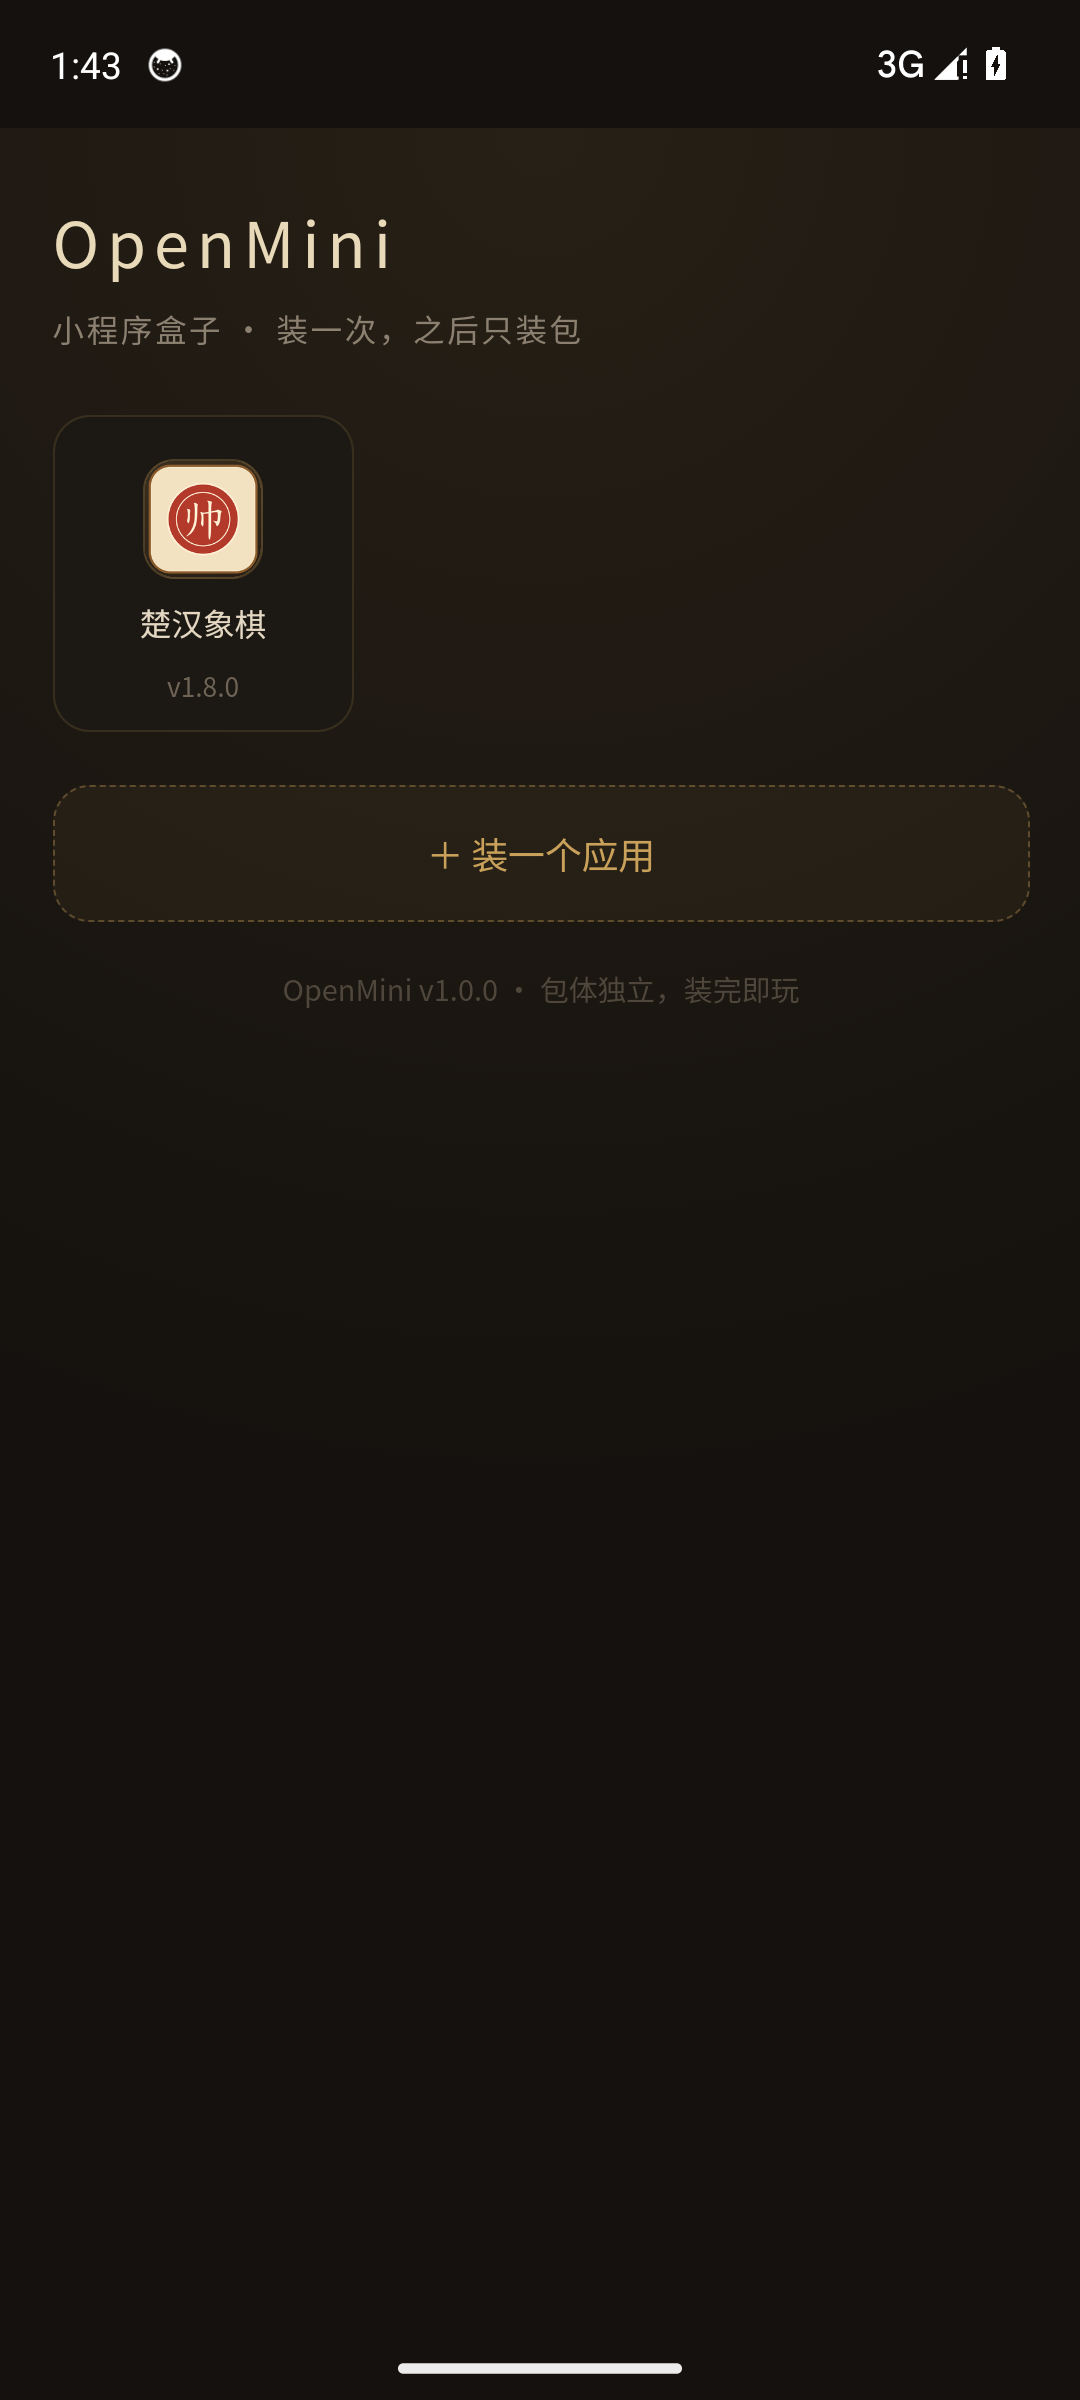
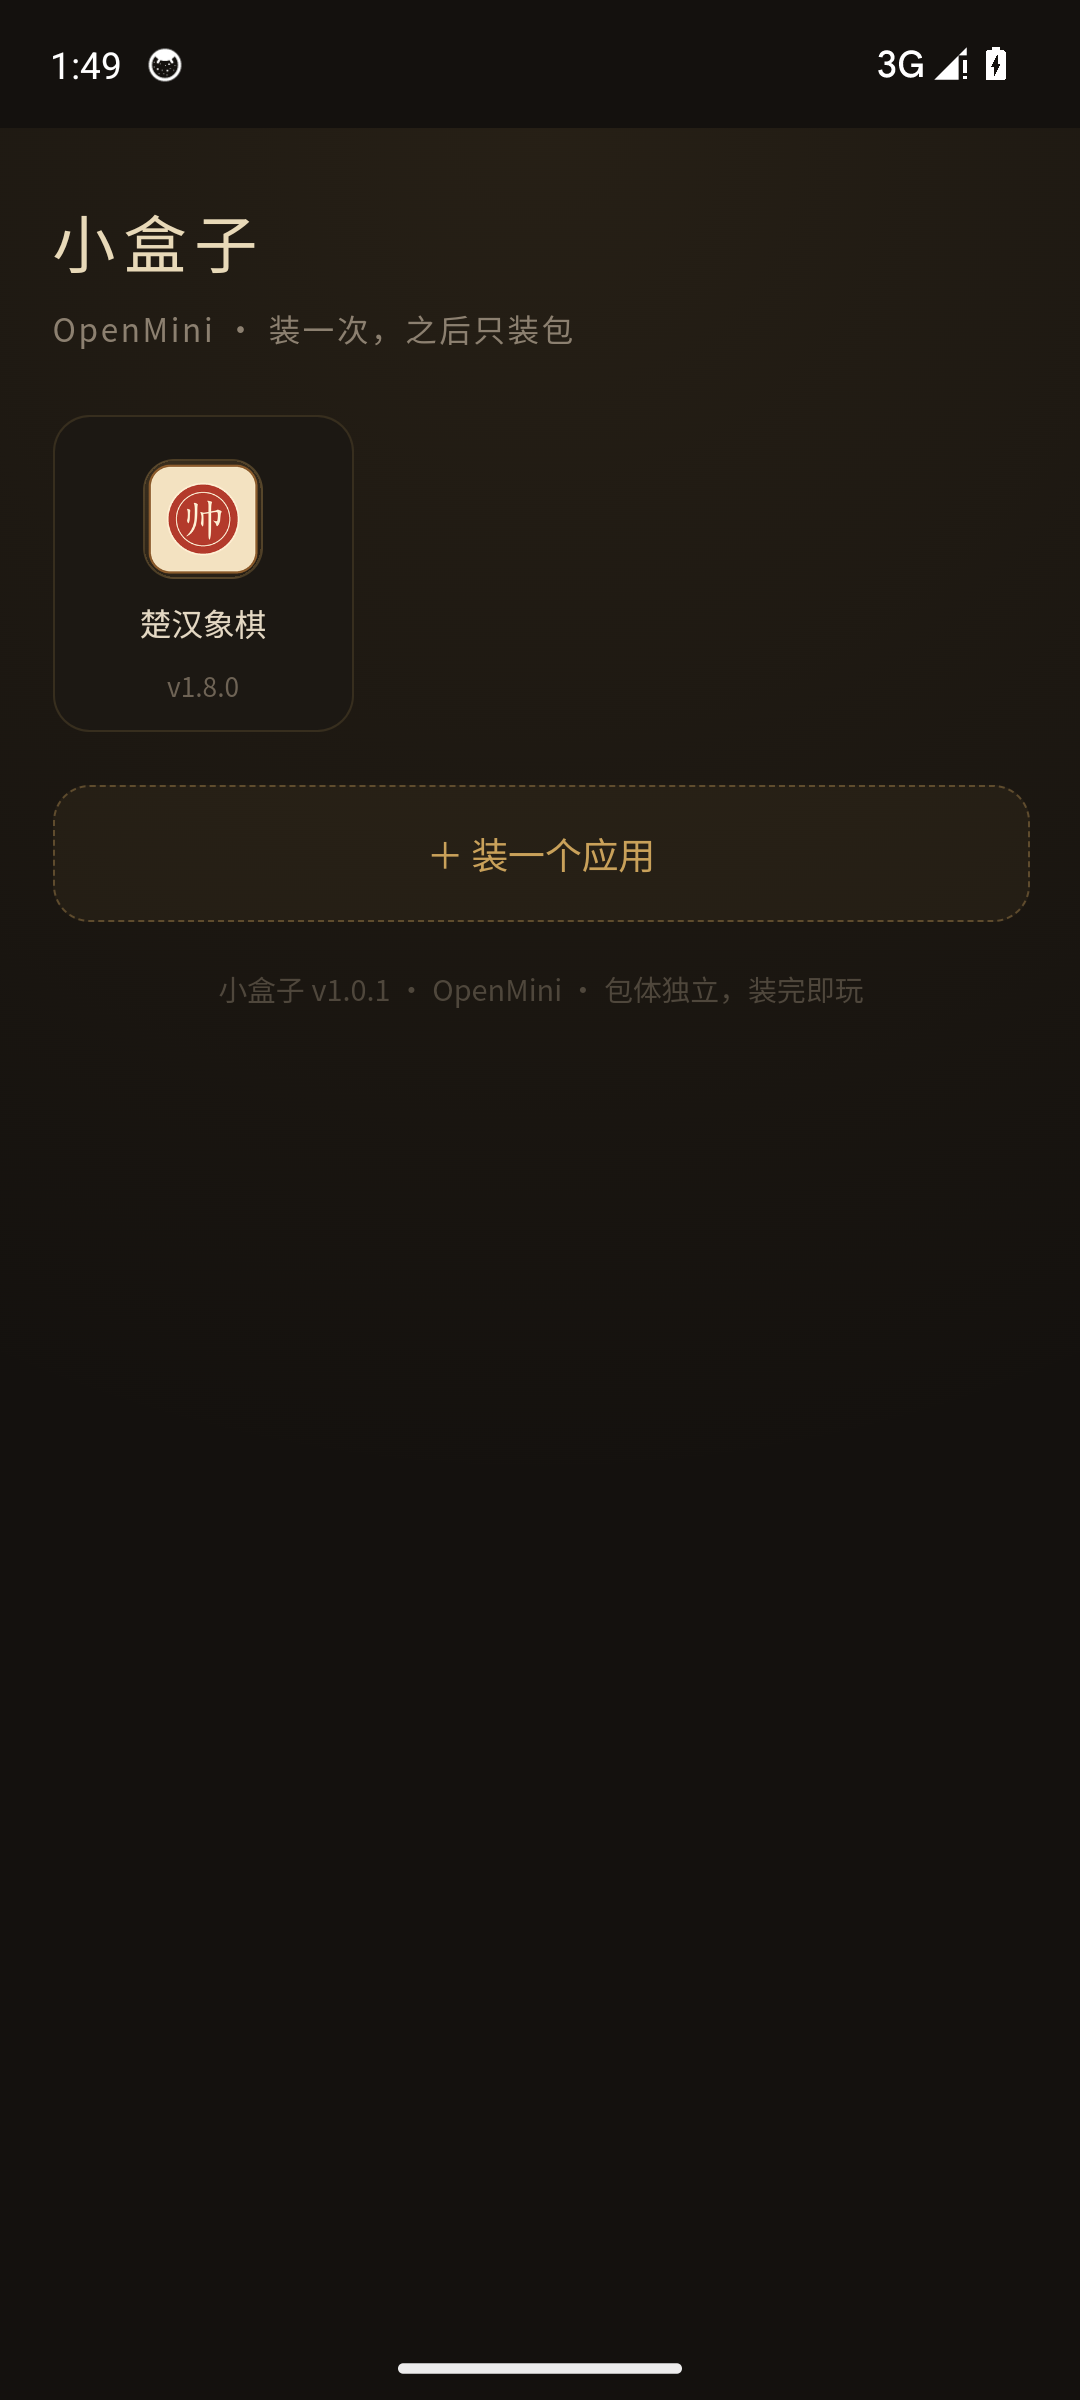
feat: 中文名改为小盒子，v1.0.1
- 应用名/启动器标题/局域网页：小盒子（OpenMini 保留为英文品牌与副标题）
- README 新增「包里跑的是什么代码？能装别人的小程序吗？」一节
- versionCode 2 / versionName 1.0.1，重打内置象棋包

diff --git a/android/app/src/main/assets/host/lan.html b/android/app/src/main/assets/host/lan.html
@@ -3,7 +3,7 @@
 <head>
 <meta charset="utf-8">
 <meta name="viewport" content="width=device-width,initial-scale=1">
-<title>OpenMini · 局域网装包</title>
+<title>小盒子 · 局域网装包</title>
 <style>
 * { box-sizing: border-box; }
 body {
@@ -96,7 +96,7 @@ code { color: #9A8B72; }
       var r = {};
       try { r = JSON.parse(xhr.responseText); } catch (err) { r = {}; }
       if (r.ok) {
-        say('<b>' + (r.msg || '已安装') + '</b>　回到手机上的 OpenMini 就能看到了');
+        say('<b>' + (r.msg || '已安装') + '</b>　回到手机上的小盒子就能看到了');
       } else {
         say(r.msg || ('上传失败 HTTP ' + xhr.status), true);
       }

diff --git a/android/app/src/main/assets/host/index.html b/android/app/src/main/assets/host/index.html
@@ -4,14 +4,14 @@
 <meta charset="utf-8">
 <meta name="viewport" content="width=device-width,initial-scale=1,viewport-fit=cover">
 <meta name="theme-color" content="#14110E">
-<title>OpenMini</title>
+<title>小盒子</title>
 <link rel="stylesheet" href="style.css">
 </head>
 <body>
 <div class="wrap">
   <header>
-    <h1>OpenMini</h1>
-    <p class="sub">小程序盒子 · 装一次，之后只装包</p>
+    <h1>小盒子</h1>
+    <p class="sub">OpenMini · 装一次，之后只装包</p>
   </header>
 
   <div id="grid" class="grid"></div>

diff --git a/android/app/src/main/assets/host/host.js b/android/app/src/main/assets/host/host.js
@@ -277,7 +277,7 @@
   if (h) {
     try {
       var m = JSON.parse(h.meta());
-      $('foot').textContent = 'OpenMini v' + m.version + ' · 包体独立，装完即玩';
+      $('foot').textContent = '小盒子 v' + m.version + ' · OpenMini · 包体独立，装完即玩';
     } catch (e) { /* 忽略 */ }
   }
 

diff --git a/README.md b/README.md
@@ -1,4 +1,4 @@
-# OpenMini · 小游盒
+# OpenMini · 小盒子
 
 **一个 104 KB 的小程序宿主 APK。装一次，以后所有小应用、小游戏都打成 zip 包随时装进去。**
 
@@ -47,7 +47,7 @@ OpenMini 把**运行时**和**内容**拆开：
 
 ## 下载 / 使用
 
-从 [Releases](https://github.com/joeyjiaojg/openmini/releases) 下载 `OpenMini-v1.0.0.apk`，装到手机上（minSdk 21 / Android 5.0+）。首次打开会自带一个示例应用。
+从 [Releases](https://github.com/joeyjiaojg/openmini/releases) 下载 `OpenMini-v1.0.1.apk`，装到手机上（minSdk 21 / Android 5.0+）。首次打开**默认已装好「楚汉象棋」**（人机对战 / 机器对战观战 / 三档难度），拿来就能玩。
 
 装新应用：
 
@@ -92,7 +92,32 @@ python tools/make-pkg.py apps/demo --version 1.1.0 --version-code 2
 python tools/make-pkg.py apps/xiangqi -o android/app/src/main/assets/apps/xiangqi.zip
 ```
 
-放进 `android/app/src/main/assets/apps/*.zip` 的包会在**首次启动**时自动安装（只播一次，用户删掉后不会复活）。
+放进 `android/app/src/main/assets/apps/*.zip` 的包会在**首次启动**时自动安装（只播一次，用户删掉后不会复活）。仓库里现在内置了 `xiangqi.zip`（源码在 `apps/xiangqi/`），所以新装的盒子打开就有象棋。
+
+## 包里跑的是什么代码？能装别人的小程序吗？
+
+**包里是普通网页**：`index.html` + CSS + JS，交给系统 WebView 直接渲染。没有 Node 运行时，不需要构建，也不要求单文件。
+
+以 `apps/xiangqi/` 为例：
+
+| 文件 | 是什么 |
+|---|---|
+| `index.html` / `css/style.css` | 页面骨架与样式 |
+| `js/game.js` | 对局流程、Canvas 棋盘绘制（ES5：`var` + `function`，兼容老 WebView） |
+| `js/bundle.js` | 规则引擎与 AI。源码本来是 CommonJS，开发时由 `tools/build-web.js` 用 20 行假模块系统（`__define` / `__require`）裹成 IIFE 挂到 `window.XQ` |
+
+Node 只出现在**开发机上**（跑 `build-web.js` 把引擎源码打成浏览器可用的 bundle），产物是纯 JS，手机端不需要 Node。
+
+**不能直接装微信小程序源码**：WXML / WXSS / `App()` / `Page()` / `wx.*` 都是微信运行时私有的，而 OpenMini 只提供浏览器环境。
+
+| 手上的东西 | 能否直接打进盒子 |
+|---|---|
+| H5 / 普通网页 / Vite、React、Vue 的构建产物 | ✅ 可以 |
+| 微信小程序源码（WXML / WXSS / `wx.*`） | ❌ 不行 |
+| Taro / uni-app / kbone 项目，能编译出 H5 版 | ✅ 先出 H5，再打包 |
+| 支付宝、百度等其它小程序源码 | ❌ 同样需要先转 H5 |
+
+要让别人的小程序源码**原样**跑起来，得引入小程序运行时（FinClip 这类商用容器，或微信官方的 Donut / 小程序运行时），体积会从 104 KB 涨到几 MB，而且授权、兼容性都是坑 —— 这正是本项目刻意不做的事。
 
 ## 自己编译
 
@@ -141,7 +166,7 @@ docs/                             包格式说明、截图
 
 ## 已知限制
 
-- 包是 **H5 包**（普通网页），不是微信小程序的 WXML/WXSS。微信小程序源码不能直接丢进来；要复用就先用 Taro / uni-app 编译出 H5 版。（想直接跑小程序代码得用 [FinClip](https://www.finclip.com/) 那类商用容器）
+- 只跑 H5 包，不跑小程序源码（详见上一节）。
 - 只用系统 WebView，所以兼容性下限取决于手机 WebView 版本；老机器上请按 ES5 写代码。
 - 应用之间不共享存档（这是设计目标），但也没有跨应用通信能力。
 - 没有签名校验，装进来的包被视为可信 —— 只适合自用和小范围分发，别当应用商店用。
